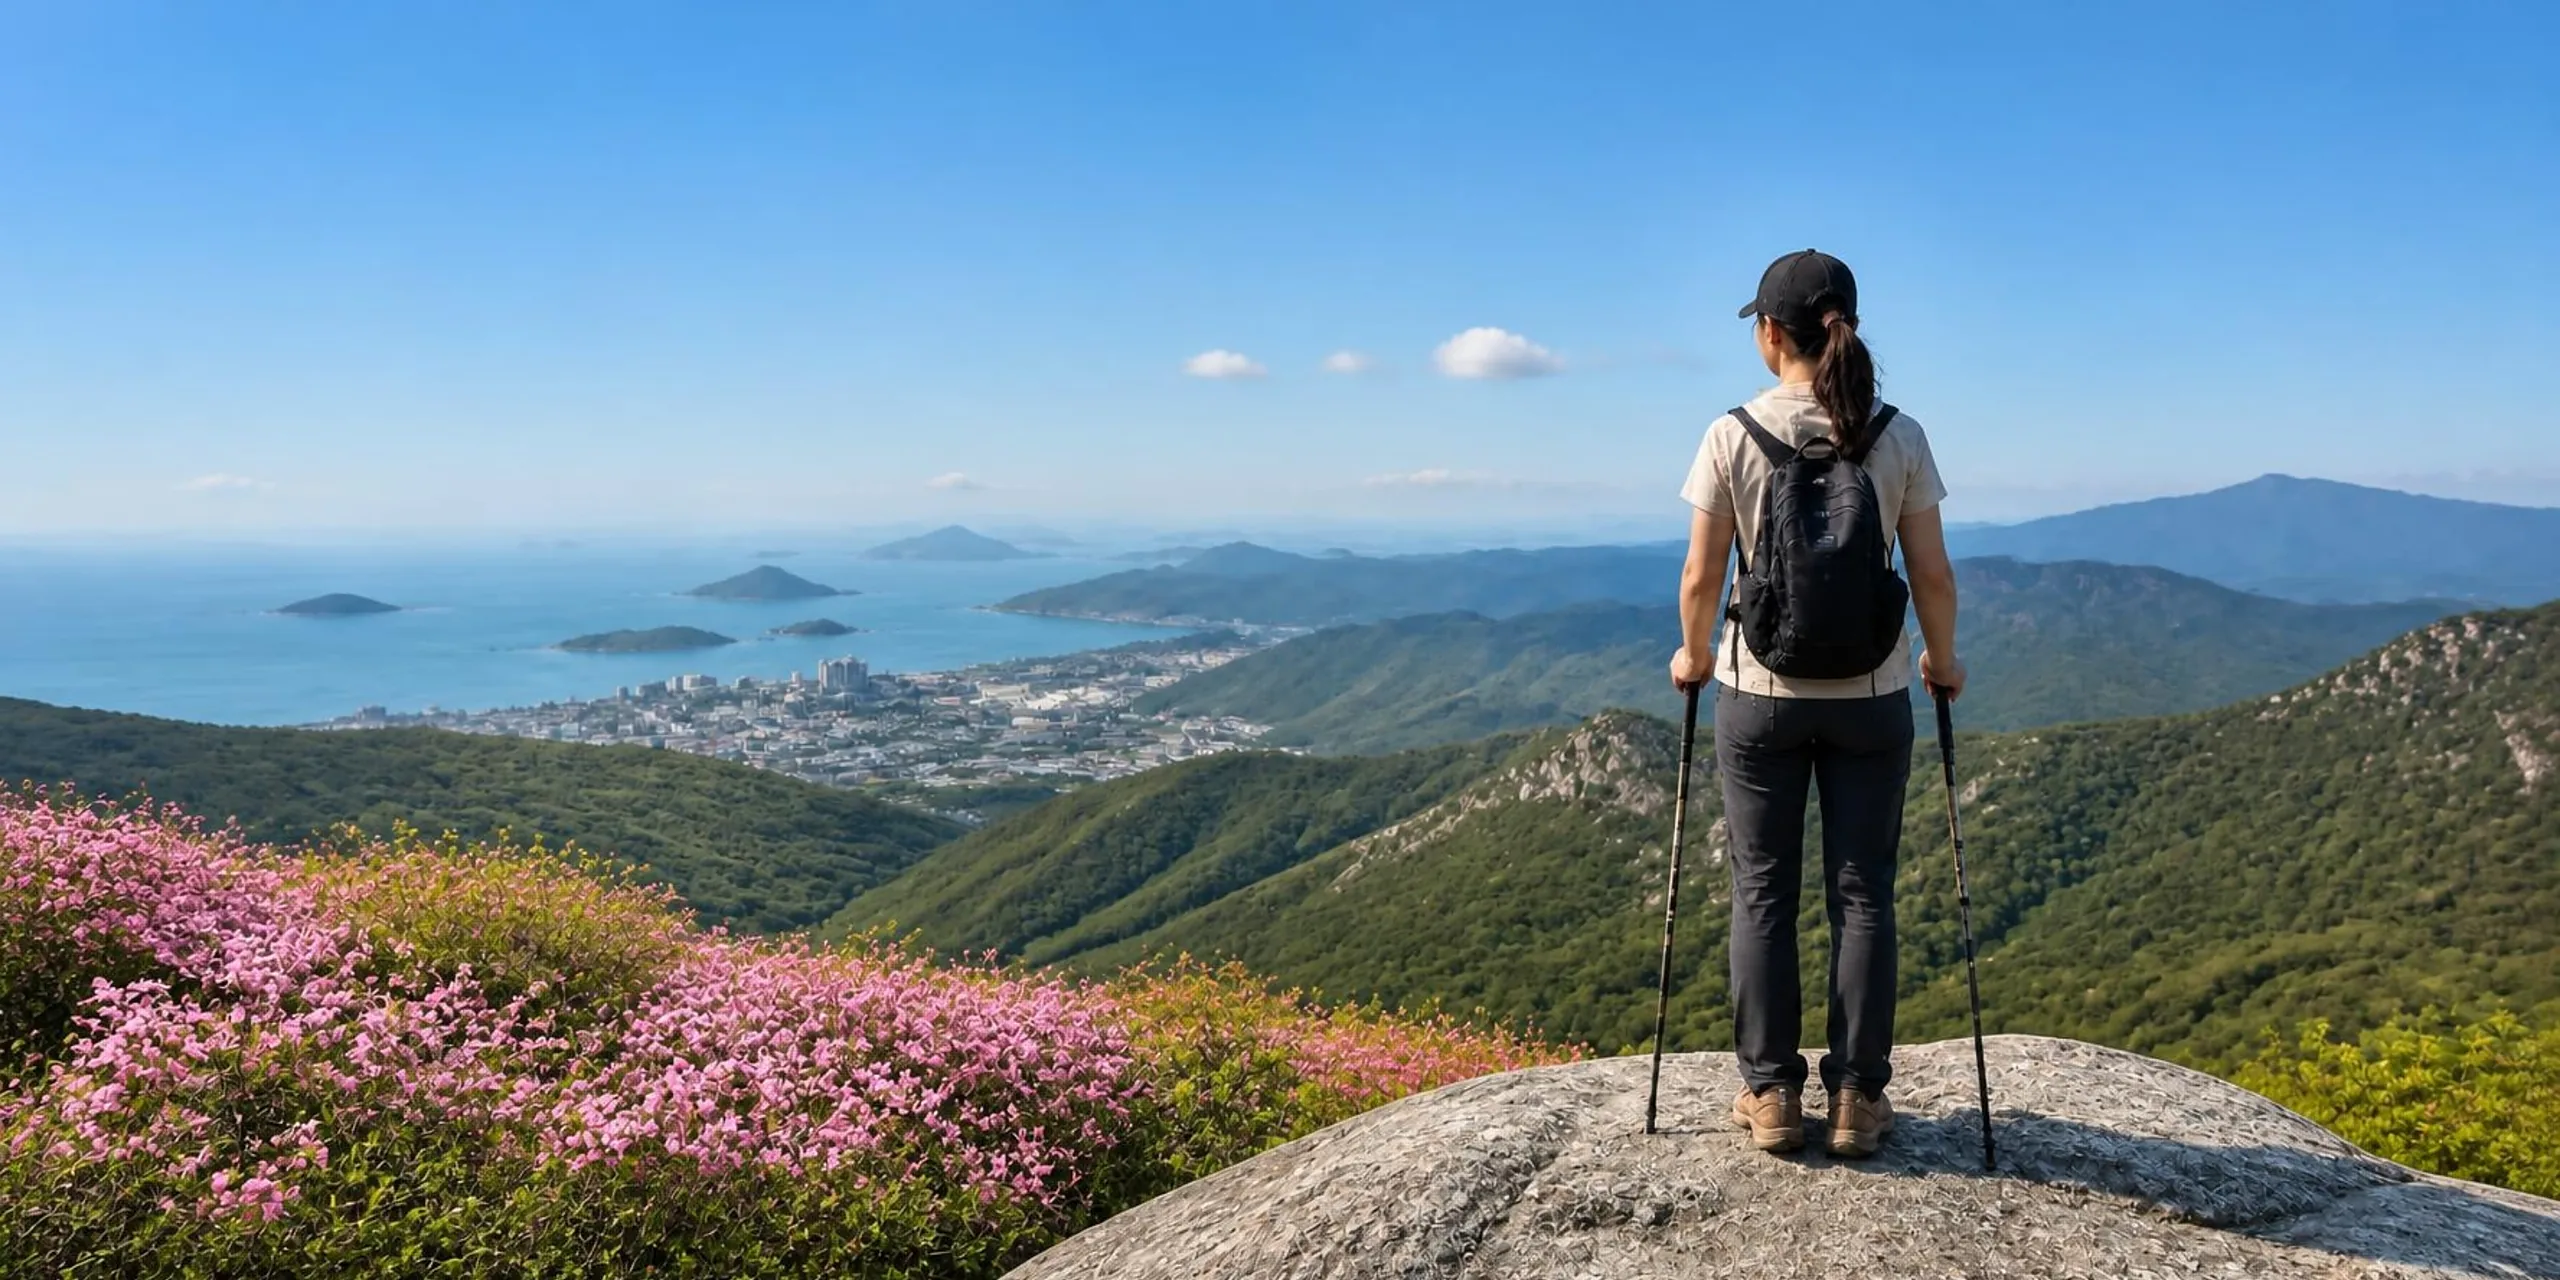
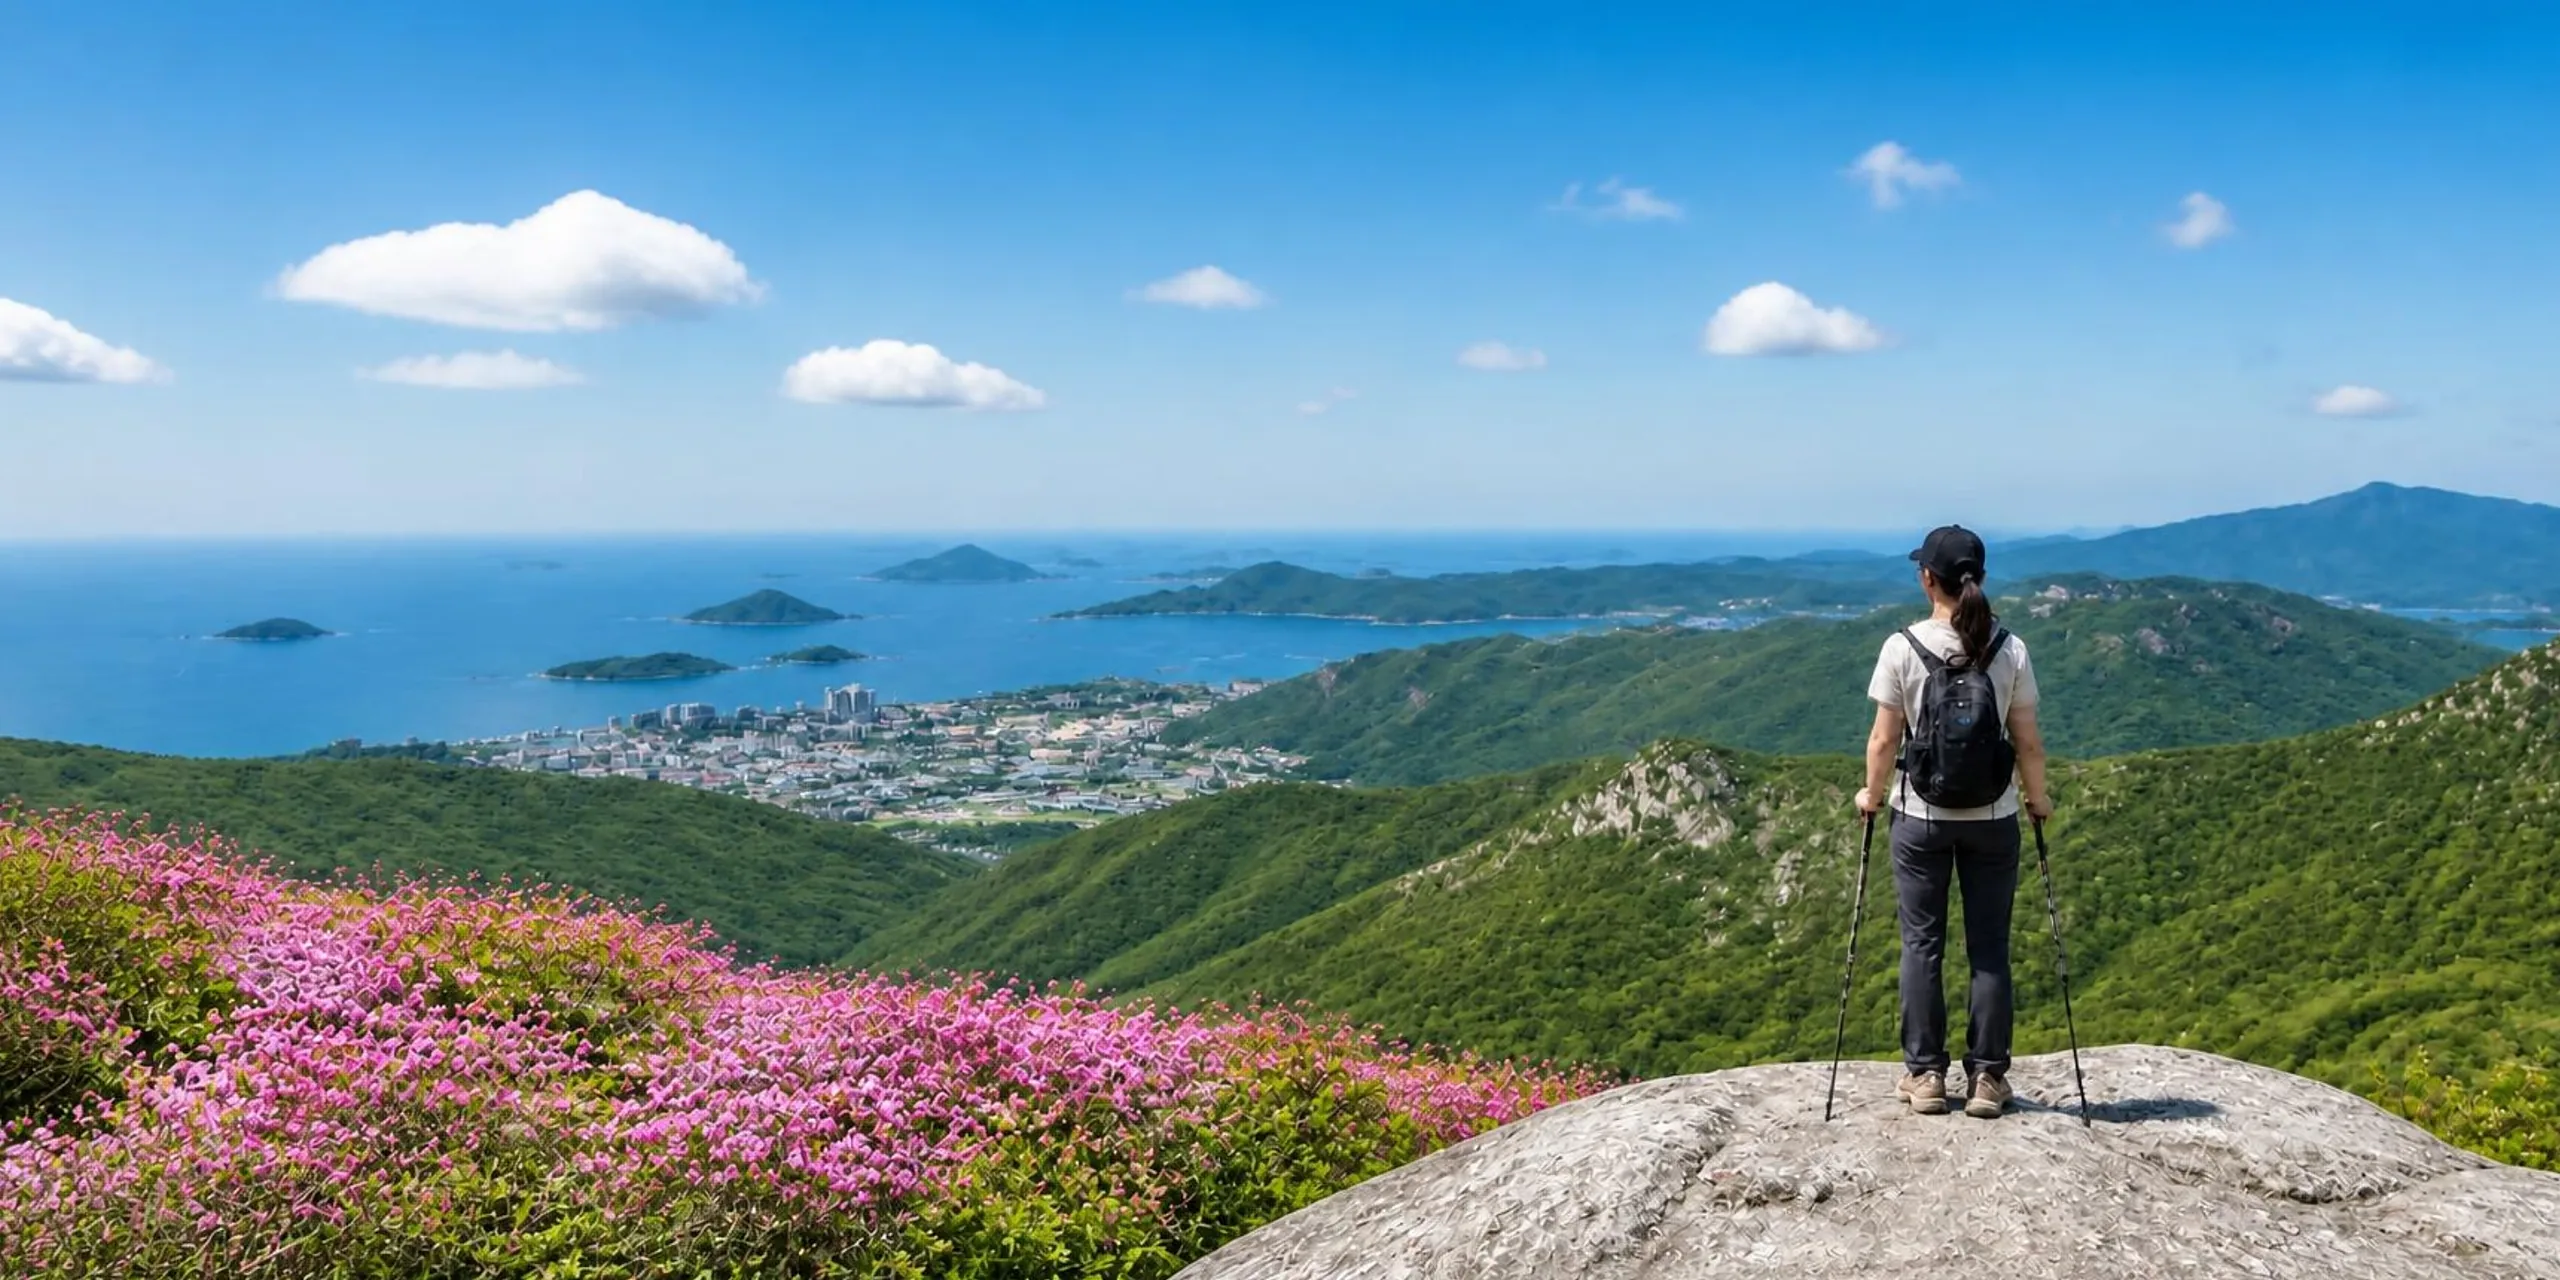
히어로 봄 낮 v11 적용 (승인 참조 기준 검수 통과) (#45)
Claude-Session: https://claude.ai/code/session_01TTPn3ts8fEyWREDupZmwxM

diff --git a/_src.html b/_src.html
@@ -13,7 +13,7 @@
 (function(){var k="";try{var d=new Date(),M=d.getMonth()+1,h=d.getHours();
 var s=M>=3&&M<=5?"spring":M>=6&&M<=8?"summer":M>=9&&M<=11?"autumn":"winter";
 var t=h>=4&&h<7?"dawn":h>=7&&h<17?"day":h>=17&&h<21?"evening":"night";k=s+"-"+t;
-var READY={"spring-dawn":1};/* 검수 통과분만 노출, 나머지는 원본 히어로 */
+var READY={"spring-dawn":1,"spring-day":1};/* 검수 통과분만 노출, 나머지는 원본 히어로 */
 window.__heroReady=READY;if(!READY[k])k="";
 var q=/[?&]hero=((?:spring|summer|autumn|winter)-(?:dawn|day|evening|night))(?:&|$)/.exec(location.search);if(q&&READY[q[1]])k=q[1];}catch(e){k="";}
 window.__hero=k;var a=k?"/img/hero/"+k:"/img/hero",b=k?"/img/hero/"+k+"-m.webp":"/img/hero-m.webp";
@@ -333,7 +333,7 @@ footer{background:var(--dark);color:rgba(255,255,255,.5);border-top:1px solid rg
       <img class="bg" id="heroImg" width="2560" height="1280" alt="산 정상 바위에 서서 다도해와 겹겹의 산줄기를 바라보는 등산객" fetchpriority="high" />
     </picture>
     <script>(function(){var k=window.__hero,i=document.getElementById("heroImg"),s=document.getElementById("heroSrc"),w=document.getElementById("bgwrap");
-var C={"spring-dawn":["#c69d96","#43383d"],"spring-day":["#7baedb","#676254"],"spring-evening":["#d7a373","#75522f"],"spring-night":["#08172b","#1b1515"],"summer-dawn":["#dcbba1","#5f5642"],"summer-day":["#75abe1","#3a5f55"],"summer-evening":["#c78665","#594429"],"summer-night":["#0f2951","#0c1826"],"autumn-dawn":["#9482ba","#5c4159"],"autumn-day":["#81b5db","#6b5e5b"],"autumn-evening":["#c69164","#693821"],"autumn-night":["#1b293a","#17151a"],"winter-dawn":["#a8acce","#475986"],"winter-day":["#afcfee","#77879c"],"winter-evening":["#8d7575","#4e3f4f"],"winter-night":["#182742","#1c273d"]};function fb(){s.srcset="/img/hero-m.webp";i.src="/img/hero.webp";w.style.backgroundImage="";}
+var C={"spring-dawn":["#c69d96","#43383d"],"spring-day":["#6eb0dc","#6d705e"],"spring-evening":["#d7a373","#75522f"],"spring-night":["#08172b","#1b1515"],"summer-dawn":["#dcbba1","#5f5642"],"summer-day":["#75abe1","#3a5f55"],"summer-evening":["#c78665","#594429"],"summer-night":["#0f2951","#0c1826"],"autumn-dawn":["#9482ba","#5c4159"],"autumn-day":["#81b5db","#6b5e5b"],"autumn-evening":["#c69164","#693821"],"autumn-night":["#1b293a","#17151a"],"winter-dawn":["#a8acce","#475986"],"winter-day":["#afcfee","#77879c"],"winter-evening":["#8d7575","#4e3f4f"],"winter-night":["#182742","#1c273d"]};function fb(){s.srcset="/img/hero-m.webp";i.src="/img/hero.webp";w.style.backgroundImage="";}
 if(!k){fb();return;}i.addEventListener("error",function(){if(!i.getAttribute("data-fb")){i.setAttribute("data-fb","1");fb();}});
 if(C[k])w.style.backgroundImage="linear-gradient(180deg,"+C[k][0]+","+C[k][1]+")";
 s.srcset="/img/hero/"+k+"-m.webp";i.src="/img/hero/"+k+".webp";})();</script>

diff --git a/index.html b/index.html
@@ -13,7 +13,7 @@
 (function(){var k="";try{var d=new Date(),M=d.getMonth()+1,h=d.getHours();
 var s=M>=3&&M<=5?"spring":M>=6&&M<=8?"summer":M>=9&&M<=11?"autumn":"winter";
 var t=h>=4&&h<7?"dawn":h>=7&&h<17?"day":h>=17&&h<21?"evening":"night";k=s+"-"+t;
-var READY={"spring-dawn":1};/* 검수 통과분만 노출, 나머지는 원본 히어로 */
+var READY={"spring-dawn":1,"spring-day":1};/* 검수 통과분만 노출, 나머지는 원본 히어로 */
 window.__heroReady=READY;if(!READY[k])k="";
 var q=/[?&]hero=((?:spring|summer|autumn|winter)-(?:dawn|day|evening|night))(?:&|$)/.exec(location.search);if(q&&READY[q[1]])k=q[1];}catch(e){k="";}
 window.__hero=k;var a=k?"/img/hero/"+k:"/img/hero",b=k?"/img/hero/"+k+"-m.webp":"/img/hero-m.webp";
@@ -333,7 +333,7 @@ footer{background:var(--dark);color:rgba(255,255,255,.5);border-top:1px solid rg
       <img class="bg" id="heroImg" width="2560" height="1280" alt="산 정상 바위에 서서 다도해와 겹겹의 산줄기를 바라보는 등산객" fetchpriority="high" />
     </picture>
     <script>(function(){var k=window.__hero,i=document.getElementById("heroImg"),s=document.getElementById("heroSrc"),w=document.getElementById("bgwrap");
-var C={"spring-dawn":["#c69d96","#43383d"],"spring-day":["#7baedb","#676254"],"spring-evening":["#d7a373","#75522f"],"spring-night":["#08172b","#1b1515"],"summer-dawn":["#dcbba1","#5f5642"],"summer-day":["#75abe1","#3a5f55"],"summer-evening":["#c78665","#594429"],"summer-night":["#0f2951","#0c1826"],"autumn-dawn":["#9482ba","#5c4159"],"autumn-day":["#81b5db","#6b5e5b"],"autumn-evening":["#c69164","#693821"],"autumn-night":["#1b293a","#17151a"],"winter-dawn":["#a8acce","#475986"],"winter-day":["#afcfee","#77879c"],"winter-evening":["#8d7575","#4e3f4f"],"winter-night":["#182742","#1c273d"]};function fb(){s.srcset="/img/hero-m.webp";i.src="/img/hero.webp";w.style.backgroundImage="";}
+var C={"spring-dawn":["#c69d96","#43383d"],"spring-day":["#6eb0dc","#6d705e"],"spring-evening":["#d7a373","#75522f"],"spring-night":["#08172b","#1b1515"],"summer-dawn":["#dcbba1","#5f5642"],"summer-day":["#75abe1","#3a5f55"],"summer-evening":["#c78665","#594429"],"summer-night":["#0f2951","#0c1826"],"autumn-dawn":["#9482ba","#5c4159"],"autumn-day":["#81b5db","#6b5e5b"],"autumn-evening":["#c69164","#693821"],"autumn-night":["#1b293a","#17151a"],"winter-dawn":["#a8acce","#475986"],"winter-day":["#afcfee","#77879c"],"winter-evening":["#8d7575","#4e3f4f"],"winter-night":["#182742","#1c273d"]};function fb(){s.srcset="/img/hero-m.webp";i.src="/img/hero.webp";w.style.backgroundImage="";}
 if(!k){fb();return;}i.addEventListener("error",function(){if(!i.getAttribute("data-fb")){i.setAttribute("data-fb","1");fb();}});
 if(C[k])w.style.backgroundImage="linear-gradient(180deg,"+C[k][0]+","+C[k][1]+")";
 s.srcset="/img/hero/"+k+"-m.webp";i.src="/img/hero/"+k+".webp";})();</script>
